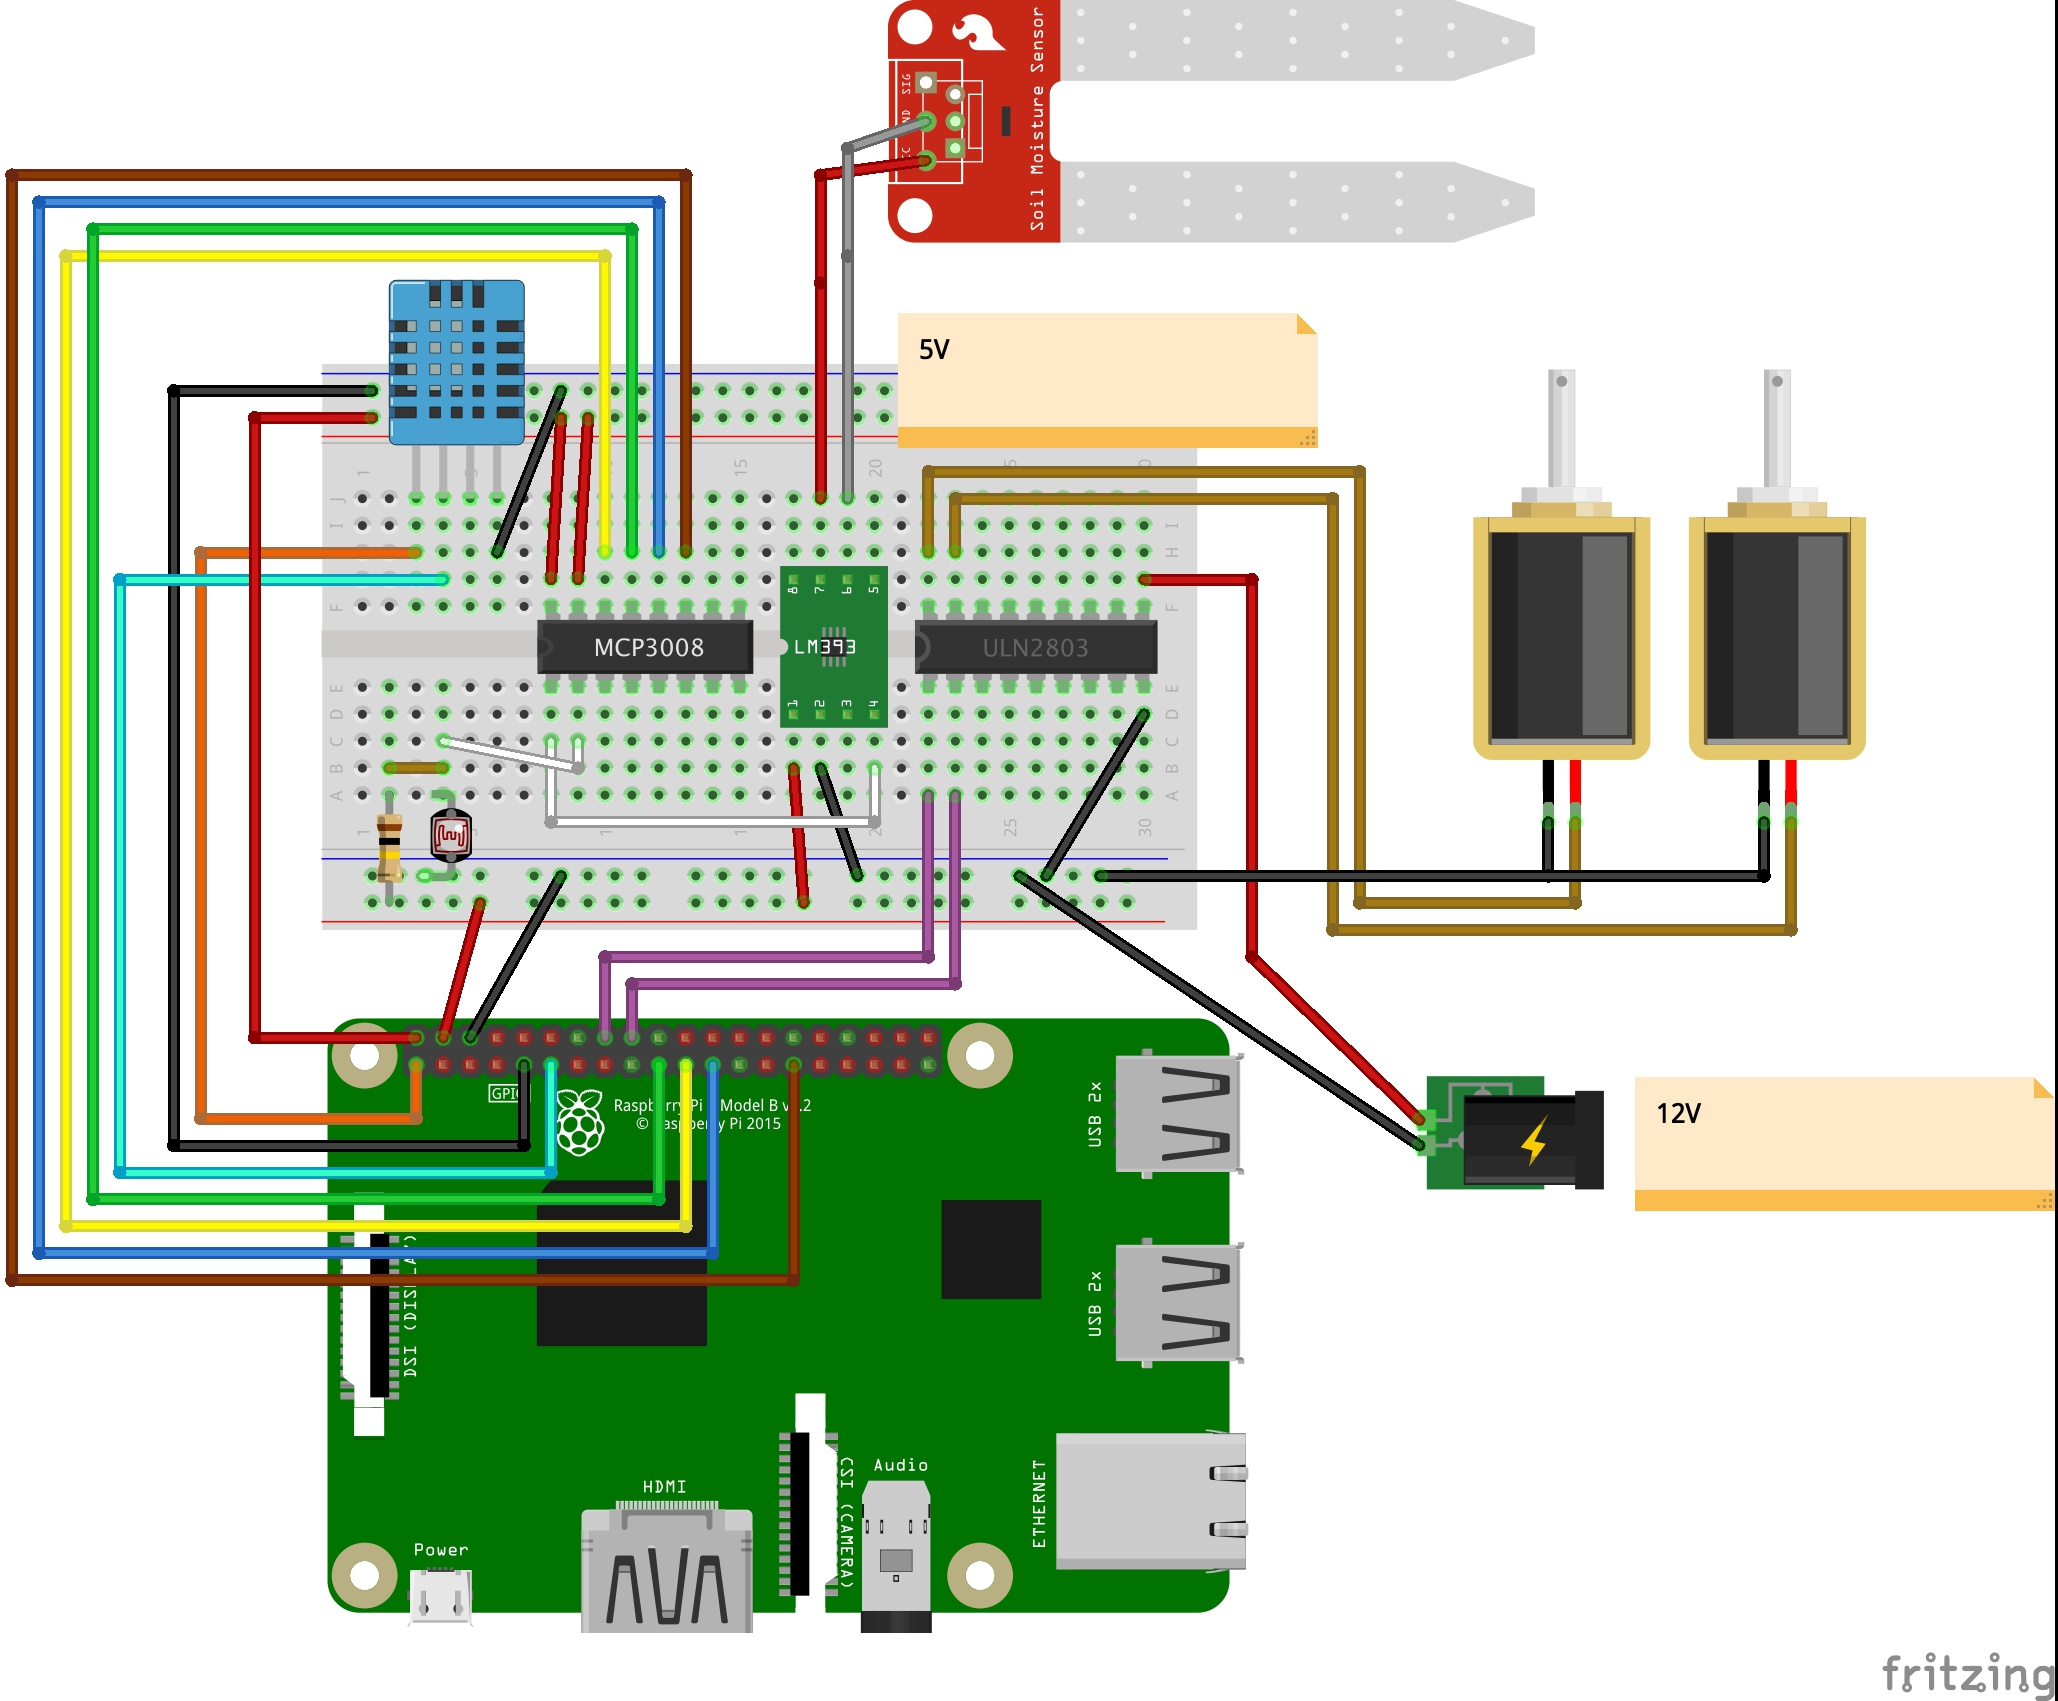
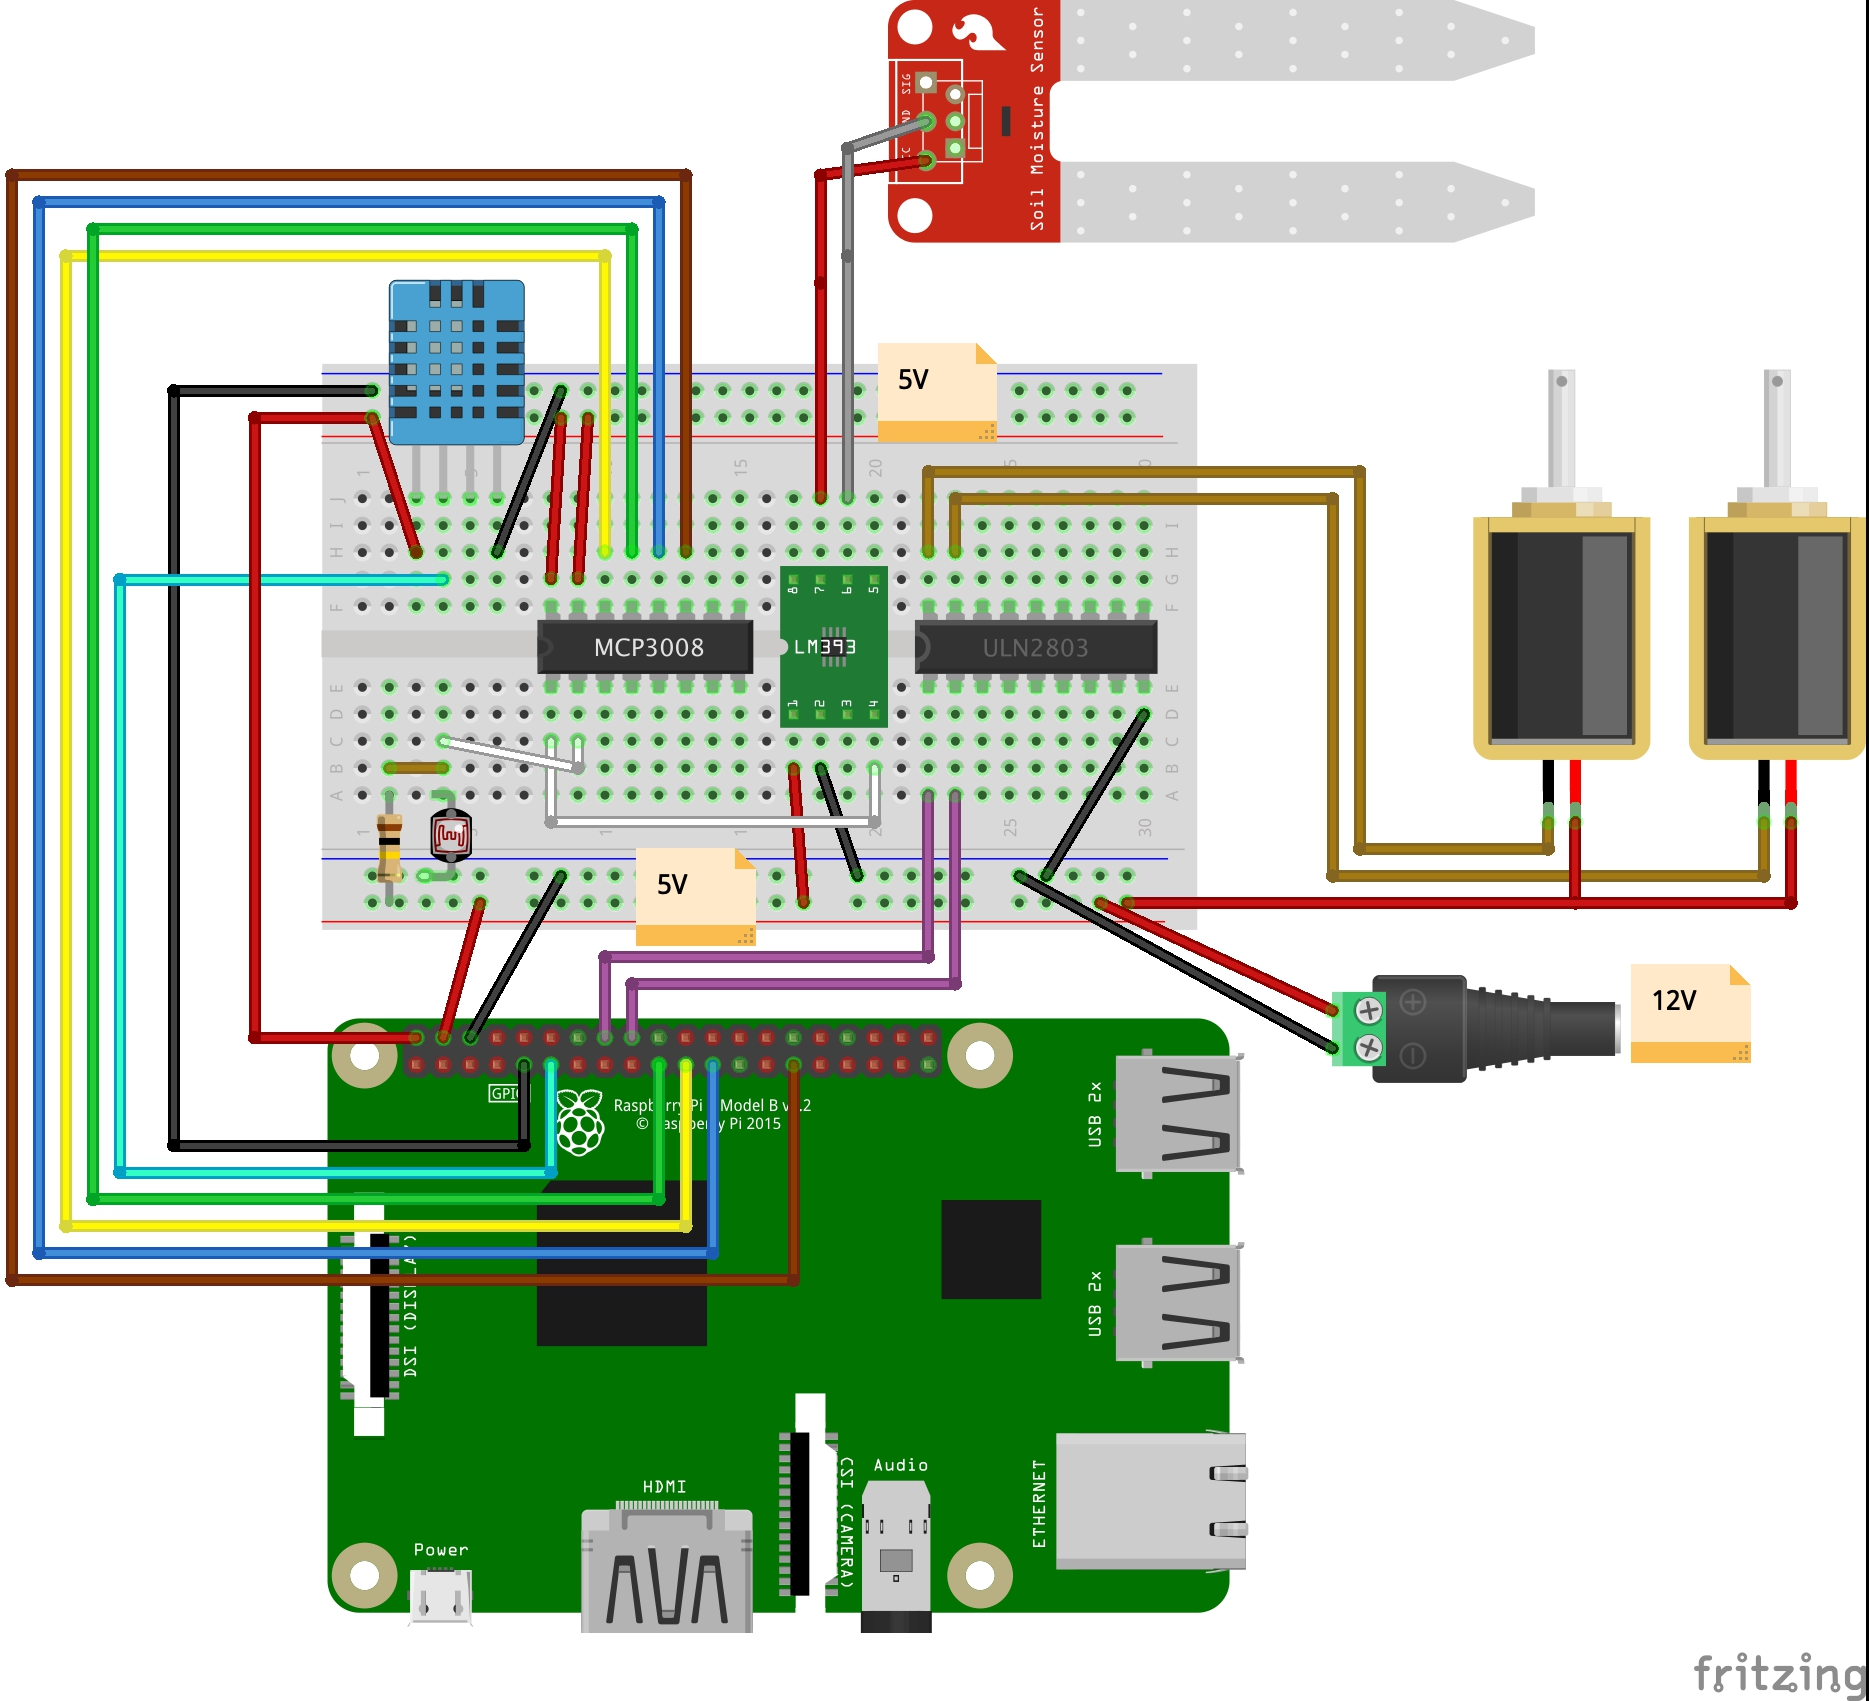
:zap: improved circuit

diff --git a/README.md b/README.md
@@ -23,5 +23,11 @@ I am reusing chunks of code from my previous projects:
 * [temp monitor site](https://github.com/matteoferla/Temperature-moniting-website-via-Rasberry-Pi)
 * [Spirometry via photoresistor](https://github.com/matteoferla/Spirometry_via_photoresistor)
 
+## Notes
+
+* I connected the two gnds. Not sure if it's a good idea or not.
+* DHT11 at 3.5V was iffy. Apparently the output is fine for the GPIO (3.29 V according to the MCP3008).
+* The ADC value of the photoresistor was non-zero when the wire was unplugged. so I put a 10kOhm pull-down resistor.
+
 
 
